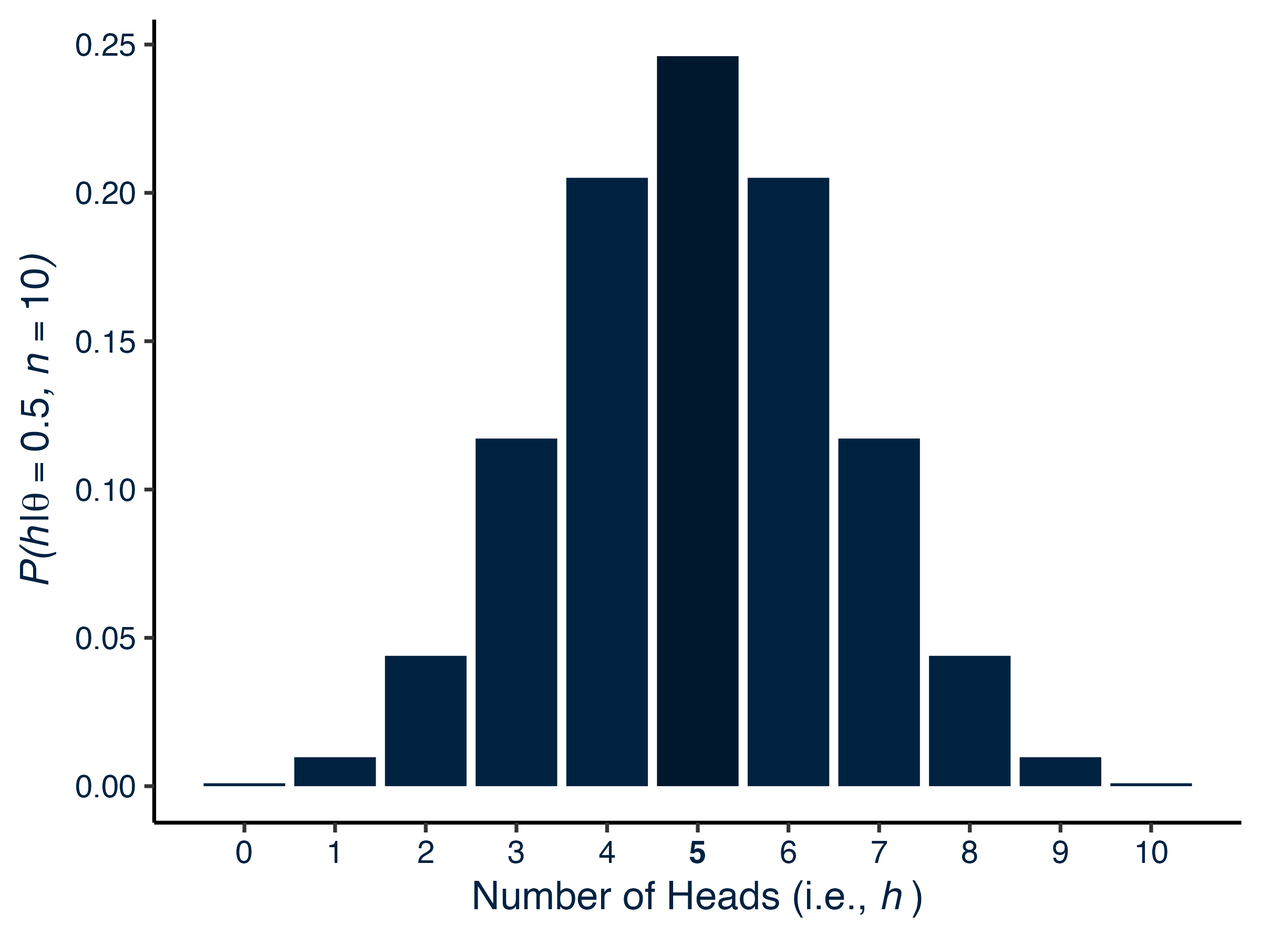
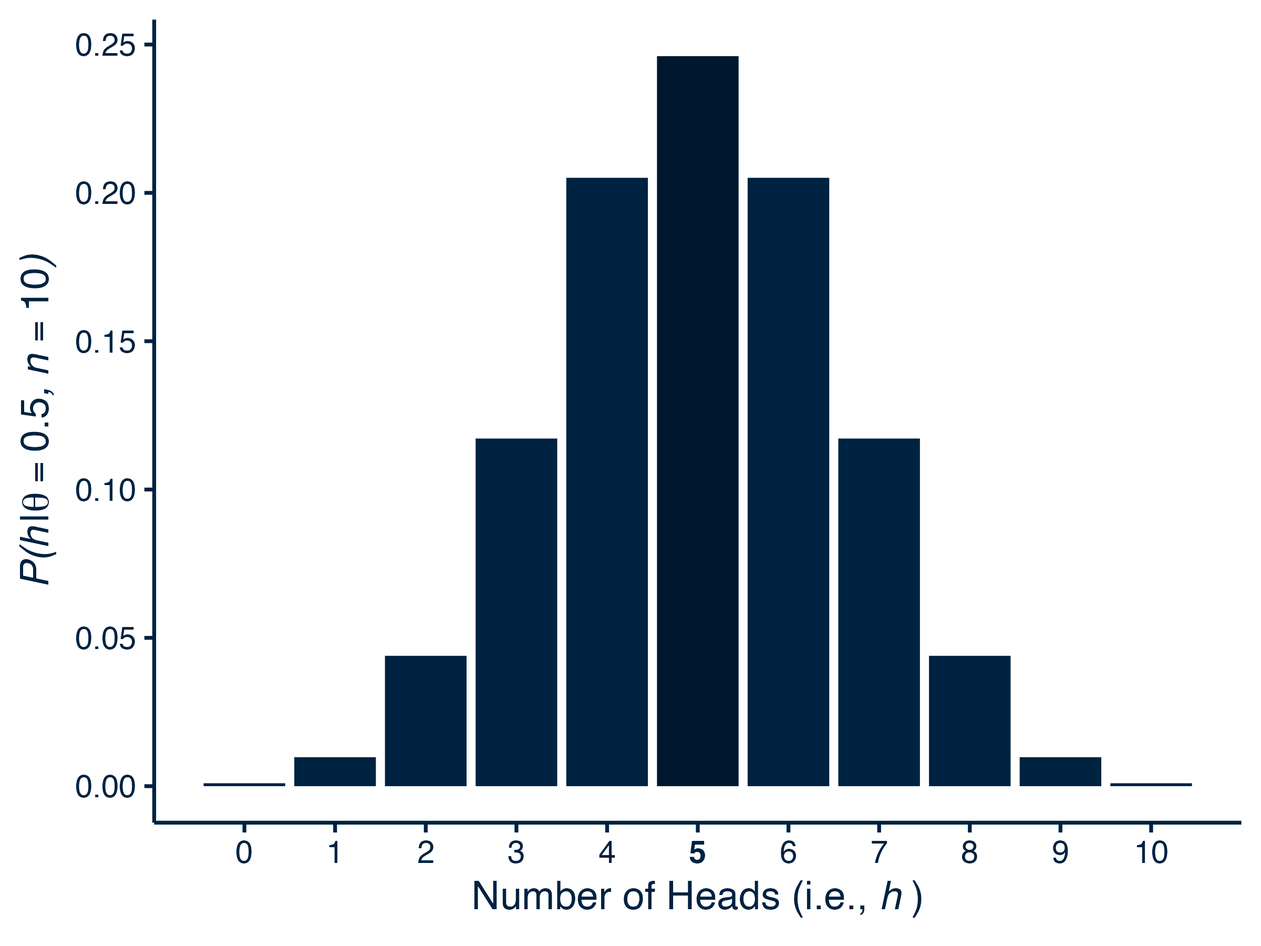
Blog update.

diff --git a/content/technical_content/MLE_EM_algorithms/index.html b/content/technical_content/MLE_EM_algorithms/index.html
@@ -342,8 +342,8 @@ display: none;
 </div>
 
 
-<div id="probability-mass-functions-the-probability-of-observing-each-possible-outcome-given-specific-parameter-values" class="section level1" number="1">
-<h1><span class="header-section-number">1</span> Probability Mass Functions: The Probability of Observing Each Possible Outcome Given Specific Parameter Values</h1>
+<div id="probability-mass-functions-the-probability-of-observing-each-possible-outcome-given-one-set-of-parameter-values" class="section level1" number="1">
+<h1><span class="header-section-number">1</span> Probability Mass Functions: The Probability of Observing Each Possible Outcome Given One Set of Parameter Values</h1>
 <p>Consider an example where a researcher obtains a coin and believes it to be unbiased, <span class="math inline">\(P(\theta) = P(head) = 0.50\)</span>. To test this hypothesis, the researcher intends to flip the coin 10 times and record the result as a <code>1</code> for heads and <code>0</code> for tails, thus obtaining a vector of 10 observed scores, <span class="math inline">\(\mathbf{y} \in \\{0, 1 \\}^{10}\)</span>, where <span class="math inline">\(n = 10\)</span>. Before collecting the data to test their hypothesis, the researcher would like to get an idea of the probability of observing any given number of heads given that the coin is unbiased and there are 10 coin flips, <span class="math inline">\(P(\mathbf{y}|\theta, n)\)</span>. Thus, the outcome of interest is the number of heads, <span class="math inline">\(h\)</span>, where <span class="math inline">\(\\{h|0 \le h \le10\\}\)</span>. Because the coin flips have a dichotomous outcome and the result of any given flip is independent of all the other flips, the probability of obtaining any given number of heads will be distributed according to a binomial distribution, <span class="math inline">\(h \sim B(n, h)\)</span>. To compute the probability of obtaining any given number of heads, the <em>binomial function</em> shown below in Equation <span class="math inline">\(\ref{eq:prob-mass-function}\)</span> can be used:
 <span class="math display">\[
 \begin{align}
@@ -402,15 +402,6 @@ library(grDevices) #needed for italic()
 highest_number_ind &lt;- which.max(prob_distribution$probability) 
 ##most likely number of successes
 most_likely_number &lt;- prob_distribution$num_successes[highest_number_ind] 
-##probability value of most likely number of successes
-highest_prob &lt;- max(prob_distribution$probability) 
-
-rectangle_data &lt;-data.frame(
-  &#39;xmin&#39; = most_likely_number - 0.10, 
-  &#39;xmax&#39; = most_likely_number + 0.10,
-  &#39;ymin&#39; = 0,
-  &#39;ymax&#39; = highest_prob)
-
 
 #create pmf plot 
 pmf_plot &lt;- ggplot(data = prob_distribution, aes(x = num_successes, y = probability)) + 
@@ -418,10 +409,8 @@ pmf_plot &lt;- ggplot(data = prob_distribution, aes(x = num_successes, y = proba
            fill =  ifelse(test = prob_distribution$num_successes == most_likely_number, 
                                 no =  &quot;#002241&quot;, 
                                 yes = &quot;#00182d&quot;)) +  #calculate sum of probability for each num_successes
- ## geom_rect(inherit.aes = F, 
- ##           data = rectangle_data, mapping = aes(xmin = xmin, xmax = xmax, ymin = ymin, ymax = ymax), 
- ##           fill = &#39;grey50&#39;, color = NA, alpha = 0.2) +
-  scale_y_continuous(name = bquote(italic(&quot;P(h&quot;)*&quot;|&quot;*italic(theta == .(prob_success)*&quot;,&quot;~n == .(num_trials)*&quot;)&quot;))) + 
+
+    scale_y_continuous(name = bquote(italic(&quot;P(h&quot;)*&quot;|&quot;*italic(theta == .(prob_success)*&quot;,&quot;~n == .(num_trials)*&quot;)&quot;))) + 
   scale_x_continuous(name = bquote(&quot;Number of Heads (i.e., &quot;*italic(&quot;h&quot;)~&quot;)&quot;), 
                      breaks = seq(from = 0, to = 10, by = 1)) +
   theme_classic(base_family = &quot;Helvetica&quot;, base_size = 18) +
@@ -434,7 +423,8 @@ pmf_plot &lt;- ggplot(data = prob_distribution, aes(x = num_successes, y = proba
                                 no =  &quot;plain&quot;, 
                                 yes = &quot;bold&quot;)), 
         text = element_text(color = &quot;#002241&quot;),
-        line = element_line(color = &quot;#002241&quot;), 
+        axis.line = element_line(color = &quot;#002241&quot;), 
+        axis.ticks = element_line(color =  &quot;#002241&quot;), 
         axis.text = element_text(color = &quot;#002241&quot;))
 
 ggsave(filename = &#39;images/pmf_plot.png&#39;, plot = pmf_plot, height = 6, width = 8)</code></pre>
@@ -445,7 +435,7 @@ ggsave(filename = &#39;images/pmf_plot.png&#39;, plot = pmf_plot, height = 6, wi
 &lt;/caption&gt;</code></pre>
 </div>
 <div class="figTitle">
-<pre><code>Probability Mass Function With an Unbiased Coin (&lt;span class = &quot;theta&quot;&gt;&amp;theta;&lt;/span&gt; = 0.50) and Ten Coin Flips (n = 10)&lt;/span&gt; </code></pre>
+<pre><code>Probability Mass Function With an Unbiased Coin (&lt;span class = &quot;theta&quot;&gt;&amp;theta;&lt;/span&gt; = 0.50) and Ten Coin Flips (n = 10)</code></pre>
 </div>
 <pre><code>&lt;img src=&quot;images/pmf_plot.png&quot; width=&quot;70%&quot; height=&quot;70%&quot;&gt; </code></pre>
 <div class="figNote">
@@ -468,7 +458,7 @@ sum(prob_distribution$probability)  #1</code></pre>
 <p>Continuing with the coin flipping example, the researcher flips the coin 10 times and obtains seven heads. With these data, the researcher wants to determine the probability value of heads, <span class="math inline">\(\theta\)</span>, that most likely produced the data, <span class="math inline">\(P(h, n|\theta)\)</span><a href="#fn2" class="footnote-ref" id="fnref2"><sup>2</sup></a>. Before continuing, it is important to explain why the researcher is no longer dealing with probabilities and is instead dealing with likelihoods.</p>
 <div id="likelihoods-are-not-probabilities" class="section level2" number="2.1">
 <h2><span class="header-section-number">2.1</span> Likelihoods are not Probabilities</h2>
-<p>Because we are interested in determining which value of <span class="math inline">\(\theta \in \[0, 1\]\)</span> most likely produced the data, the probability of observing the data must be computed for each of these values, <span class="math inline">\(P(h = 7, n = 10|\theta)\)</span>. Although we also use the binomial function to compute <span class="math inline">\(P(h = 7, n = 10|\theta)\)</span> for each <span class="math inline">\(\theta \in \[0, 1\]\)</span>, the resulting values are not probabilities because they do not sum to 1, and this can be verified by summing these values using the code below (for a mathematical proof, see <a href="#proof-likelihood">Appendix B</a>).</p>
+<p>Because we are interested in determining which value of <span class="math inline">\(\theta \in \[0, 1\]\)</span> most likely produced the data, the probability of observing the data must be computed for each of these values, <span class="math inline">\(P(h = 7, n = 10|\theta)\)</span>. Thus, we now fix the data, <span class="math inline">\(h = 7, n = 10\)</span>, and vary the parameter value of <span class="math inline">\(\theta\)</span>. Although we also use the binomial function to compute <span class="math inline">\(P(h = 7, n = 10|\theta)\)</span> for each <span class="math inline">\(\theta \in \[0, 1\]\)</span>, the resulting values are not probabilities because they do not sum to 1. Indeed, the code below shows that the values sum to 9.09. Thus, when fixing the data and varying the parameter values, the resulting values do not sum to one (for a mathematical proof with the binomial function, see <a href="#proof-likelihood">Appendix B</a> and are, therefore, not probabilities: they are likelihoods. To signify the fundamental difference between probabilities and likelihoods, we use different notations. When fixing the data and varying the parameter values, we compute the likelihood of the parameter given the data, <span class="math inline">\(L(\theta|h, n)\)</span>.</p>
 <pre class="r"><code>num_trials &lt;- 10
 num_successes &lt;- 7
 prob_success &lt;- seq(from = 0, to = 1, by = 0.01) #manipulated variable 
@@ -479,34 +469,39 @@ likelihood_distribution &lt;- compute_binom_mass_density(num_trials = num_trials
 sum(likelihood_distribution$probability)</code></pre>
 <pre><code class="r-code">[1] 9.09091
 </code></pre>
-<p>The sum of all these values is greater than 1—specifically, 9.09—and so these values are not probabilities. To provide an explanation, when determining the value of <span class="math inline">\(\theta\)</span> that most likely produced the data, we fix the data and vary the parameter values (i.e., <span class="math inline">\(\theta\)</span>). the data and varying the parameter values, the resulting values do not sum to 1 and are, consequently, not probability values: they are likelihoods. Therefore, when trying to determine the value of <span class="math inline">\(\theta\)</span> that most likely produced the observed data, likelihoods are computed, and this fundamental difference is conveyed with a different notation. Instead of computing the probability of the data given a parameter value (e.g., <span class="math inline">\(P(h = 7, n = 10|\theta)\)</span>), we compute the likelihood of the parameter given the data, <span class="math inline">\(L(\theta|h = 7, n = 10)\)</span>.</p>
+<p>In computing likelihoods, it is important to note they cannot be interpreted as probabilities. As an example, the likelihood of 0.108 obtained for <span class="math inline">\(L(\theta = .50|h=7, n=10)\)</span> does not mean that, given a probability of heads of .50, there is a 10.8% chance that seven heads will arise in 10 coin flips: The value of <span class="math inline">\(L(\theta = .50|h=7, n=10) = 0.108\)</span> provides a measure of how strongly the data are expected under the hypothesis that <span class="math inline">\(\theta = .50\)</span>.</p>
 </div>
-<div id="using-likelihoods-to-determine-the-parameter-value-that-most-likely-produced-the-observed-data" class="section level2" number="2.2">
-<h2><span class="header-section-number">2.2</span> Using Likelihoods to Determine the Parameter Value that Most Likely Produced the Observed Data</h2>
-<p>Although probability density functions compute the probability that a set of data values have been observed given a fixed set of parameter valuess, we are seldom interested in this probability. Practitioners and researchers
-are more interested in the probability that a certain set of parameter values characterize the larger population (i.e, <span class="math inline">\(p(\theta|y)\)</span>). When trying to determine the most likely set of
-parameter values, we use likelihood functions. Thus, the likelihood of a set of parameters given the observed data is represented as <span class="math inline">\(L(\theta|y)\)</span>. Importantly, likelihoods do not
-represent the probability that a given set of parameter values defines the population (i.e., <span class="math inline">\(P(\theta)\)</span>); we sample data and want to infer parameter values at the population level. With
-probabilities, we assume knowledge of the population parameter values and calculate the probability of observing any given set of data. Using perhaps more relatable terms, the
-hypothesis is assumed to be true when calculating conditional probabilities and the data are varied. For likelihoods, the data is fixed and the hypothesis is varied. Note that Bayes
-theorem can be used to convert likelihoods (<span class="math inline">\(L(\theta|y)\)</span>) to probabilities (<span class="math inline">\(P(\theta)\)</span>).</p>
-<p>To compute likelihoods, the function used to compute the above probabilities is used. Although confusing, the parameter values (the probability of success in this example [<span class="math inline">\(\theta_1\)</span>])
-are now being manipulated and not the data (see Figure <a href="#fig:likelihood-dist"><strong>??</strong></a>. Importantly, the sum of all the likelihoods does not sum to 1 (<span class="math inline">\(\int^n_0 f(y|n, \theta) \neq 1\)</span>),
-which explains why likelihoods are sometimes called <em>unnormalized probabilities</em>. Although it seems unintuitive that the sum of the likelihoods is not 1, remember that likelihoods do not
-describe the probability of a set of parameter being true (i.e., <span class="math inline">\(p(\theta)\)</span>); if they did, then the integral would sum to 1. Given that we have two parameters, we can also produce
-another likelihood function by changing the values of the number of trials <span class="math inline">\(\theta_1\)</span> (see Figure <a href="#likelihood-dist2"><strong>??</strong></a>). A joint likelihood function can be produced by varying
-both parameters simultaneously.</p>
+<div id="creating-a-likelihood-distribution-to-find-the-maximum-likelihood-estimate" class="section level2" number="2.2">
+<h2><span class="header-section-number">2.2</span> Creating a Likelihood Distribution to Find the Maximum Likelihood Estimate</h2>
+<p>Although likelihoods are fundamentally different from probabilities, they can still be plotted to find the most likely parameter value.</p>
+<div class="figure">
+<div class="figDivLabel">
+<pre><code>&lt;caption&gt;
+  &lt;span class = &#39;figLabel&#39;&gt;Figure \ref{fig:prob-mass-binom}&lt;span&gt; 
+&lt;/caption&gt;</code></pre>
 </div>
-<div id="resources" class="section level2" number="2.3">
-<h2><span class="header-section-number">2.3</span> Resources</h2>
+<div class="figTitle">
+<pre><code>Likelihood Distribution With Seven Heads (h = 7) and Ten Coin Flips (n = 10)</code></pre>
+</div>
+<pre><code>&lt;img src=&quot;images/likelihood_plot.png&quot; width=&quot;70%&quot; height=&quot;70%&quot;&gt; </code></pre>
+<div class="figNote">
+<pre><code>  &lt;span&gt;&lt;em&gt;Note. &lt;/em&gt; Number emboldened on the x-axis indicates the value of &lt;span class = &quot;theta&quot;&gt;&amp;theta;&lt;/span&gt; that is the maximum likelihood estimate, with the corresponding bar in dark blueindicating the corresponding value.&lt;/span&gt; </code></pre>
 </div>
 </div>
-<div id="references" class="section level1" number="3">
-<h1><span class="header-section-number">3</span> References</h1>
+</div>
+</div>
+<div id="using-maximum-likelihood-estimation-to-find-the-most-likely-set-of-parameter-values" class="section level1" number="3">
+<h1><span class="header-section-number">3</span> Using Maximum Likelihood Estimation to Find the Most Likely Set of Parameter Values</h1>
+<div id="resources" class="section level2" number="3.1">
+<h2><span class="header-section-number">3.1</span> Resources</h2>
+</div>
+</div>
+<div id="references" class="section level1" number="4">
+<h1><span class="header-section-number">4</span> References</h1>
 <p>{{&lt; bibliography cited &gt;}}</p>
 </div>
-<div id="proof-pmf" class="section level1" number="4">
-<h1><span class="header-section-number">4</span> Appendix A: Proof That the Binomial Function is a Probability Mass Function</h1>
+<div id="proof-pmf" class="section level1" number="5">
+<h1><span class="header-section-number">5</span> Appendix A: Proof That the Binomial Function is a Probability Mass Function</h1>
 <p>To prove that the binomial function is a probability mass function, two outcomes must be shown: 1) all probability values are non-negative and 2) the sum of all probabilities is 1.</p>
 <p>For the first condition, the impossibility of negative values occurring in the binomial function becomes obvious when individually considering the binomial coefficient, <span class="math inline">\(n \choose k\)</span>, and the binomial factors, <span class="math inline">\(p^k (1-p)^{n-k}\)</span>. With respect to the binomial coefficient, <span class="math inline">\(n \choose k\)</span>, it is always nonnegative because it is the product of two non-negative numbers; the number of trials, <span class="math inline">\(n\)</span>, and the number of successes can never be negative. With respect to the binomial factors, the resulting value is always nonnegative because all the term are nonnegative; in addition to the number of trials and successes (<span class="math inline">\(n, k\)</span>, respectively), the probability of success and failure are also always nonnegative (<span class="math inline">\(p, k \in \[0,1\]\)</span>). Therefore, probabilities can be conceptualized as the product of a nonnegative binomial coefficient and a nonnegative binomial factor, and so is alwasys nonnegative.</p>
 <p>For the second condition, the equality stated below in Equation <span class="math inline">\(\ref{eq:binomial-sum-one}\)</span> must be proven:</p>
@@ -522,8 +517,8 @@ both parameters simultaneously.</p>
 <p>Given the striking resemblance between the binomial function in Equation <span class="math inline">\(\ref{eq:binomial-sum-one}\)</span> and the binomial theorem in Equation <span class="math inline">\(\ref{eq:binomial-sum-one}\)</span>, it is possible to restate the binomial theorem with respect to the variables in the binomial function. Specifically, we can let <span class="math inline">\(a = p\)</span> and <span class="math inline">\(b = 1-p\)</span>, which returns the proof as shown below:</p>
 <p>For a proof of the binomial theorem, see <a href="#proof-binomial">Appendix E</a>.</p>
 </div>
-<div id="proof-likelihood" class="section level1" number="5">
-<h1><span class="header-section-number">5</span> Appendix B: Proof That Likelihoods are not Probabilities</h1>
+<div id="proof-likelihood" class="section level1" number="6">
+<h1><span class="header-section-number">6</span> Appendix B: Proof That Likelihoods are not Probabilities</h1>
 <p>As a reminder, although the same formula is used to compute likelihoods and probabilities, the variables allowed to vary and those set to be fixed differ when computing likelihoods and probabilities. With probabilities, the parameters are fixed (<span class="math inline">\(\theta\)</span>, <span class="math inline">\(n\)</span>) and the data are varied (<span class="math inline">\(h\)</span>; notice how, in Appendix A, probabilities were summed across all possible values of <span class="math inline">\(h\)</span>). With likelihoods, however, the data are fixed (<span class="math inline">\(h\)</span>) and the parameters are varied (<span class="math inline">\(\theta\)</span>, <span class="math inline">\(n\)</span>). For the current proof, it is sufficient to only allow <span class="math inline">\(\theta\)</span> to vary. To prove that likelihoods are not probabilities, we have to prove that likelihoods do not satisfy one of the two conditions required by probabilities (i.e., likelihoods can have negative values or likelihoods do not sum to one). Given that likelihoods are calculated with the same function as probabilities and probabilities can never be negative (see <a href="#proof-pmf">Appendix A</a>), likelihoods likewise can never ne negative. Therefore, to prove that likelihoods are not probabilities, we must prove that likelihoods do not always sum to 1. Thus, the following proposition must be proven:</p>
 <p><span class="math display">\[
 \int_0^1 L(\theta|h, n) \phantom{c} d\theta= \sum_{\theta = 0}^1{n \choose h} \theta^h(1 - \theta)^{n-h} \neq 1.
@@ -601,8 +596,8 @@ sum(likelihood_distribution$probability) #compute integral</code></pre>
 <pre><code class="r-code">[1] 9.09091
 </code></pre>
 </div>
-<div id="proof-beta-gamma" class="section level1" number="6">
-<h1><span class="header-section-number">6</span> Appendix C: Proof of Relation Between Beta and Gamma Functions</h1>
+<div id="proof-beta-gamma" class="section level1" number="7">
+<h1><span class="header-section-number">7</span> Appendix C: Proof of Relation Between Beta and Gamma Functions</h1>
 <p>Equation <span class="math inline">\(\ref{eq:beta-gamma-proof}\)</span> below will be proven</p>
 <p><span class="math display">\[
 \begin{align}
@@ -683,17 +678,17 @@ At this point, we need to determine the integration limits of <span class="math 
 \]</span></p>
 <p>Therefore, the original integration limits of 0 to <span class="math inline">\(\infty\)</span> of <span class="math inline">\(s\)</span> and <span class="math inline">\(t\)</span> produce integration limits 0 to <span class="math inline">\(\infty\)</span> for <span class="math inline">\(u\)</span> and 0 to 1 for <span class="math inline">\(v\)</span>. Recalling the gamma function (Equation <span class="math inline">\(\ref{eq:gamma-function}\)</span> and the beta function (Equation <span class="math inline">\(\ref{eq:beta-function}\)</span>, the beta function can now be expressed in terms of the gamma function, proving Equation <span class="math inline">\(\ref{eq:beta-gamma-proof}\)</span>.</p>
 </div>
-<div id="proof-gamma-factorial" class="section level1" number="7">
-<h1><span class="header-section-number">7</span> Appendix D: Proof of Relation Between Gamma and Factorial Functions</h1>
+<div id="proof-gamma-factorial" class="section level1" number="8">
+<h1><span class="header-section-number">8</span> Appendix D: Proof of Relation Between Gamma and Factorial Functions</h1>
 </div>
-<div id="proof-binomial" class="section level1" number="8">
-<h1><span class="header-section-number">8</span> Appendix E: Proof of Binomial Theorem</h1>
+<div id="proof-binomial" class="section level1" number="9">
+<h1><span class="header-section-number">9</span> Appendix E: Proof of Binomial Theorem</h1>
 </div>
 <div class="footnotes footnotes-end-of-document">
 <hr />
 <ol>
 <li id="fn1"><p>Discrete variables have a countable number of discrete values. In the current example with ten coin flips (<span class="math inline">\(n = 10\)</span>), the number of heads is a discrete variable because the number of heads, <span class="math inline">\(h\)</span>, has a countable number of outcomes, <span class="math inline">\(h \in \\{0, 1, 2, ..., n\\}\)</span>.<a href="#fnref1" class="footnote-back">↩</a></p></li>
-<li id="fn2"><p>It should be noted that Bayes’ formula can also be used to determine the value of <span class="math inline">\(\theta\)</span> that most likely produced the data. Instead of calculating, <span class="math inline">\(P(h, n|\theta)\)</span>, however, Bayes’ formula uses prior information about an hypothesis to calculate the probability of <span class="math inline">\(\theta\)</span> given the data, <span class="math inline">\(P(\theta|h, n)\)</span> (for a review, see {{&lt; cite “fine2019” &gt;}}).<a href="#fnref2" class="footnote-back">↩</a></p></li>
+<li id="fn2"><p>It should be noted that Bayes’ formula can also be used to determine the value of <span class="math inline">\(\theta\)</span> that most likely produced the data. Instead of calculating, <span class="math inline">\(P(h, n|\theta)\)</span>, however, Bayes’ formula uses prior information about an hypothesis to calculate the probability of <span class="math inline">\(\theta\)</span> given the data, <span class="math inline">\(P(\theta|h, n)\)</span> (for a review, see {{&lt; cite “etz2018” &gt;}}).<a href="#fnref2" class="footnote-back">↩</a></p></li>
 </ol>
 </div>
 

diff --git a/themes/basic/assets/css/_tableContents.scss b/themes/basic/assets/css/_tableContents.scss
@@ -9,6 +9,7 @@
 
 .toc_container {
    position: -webkit-sticky; /* Safari */
+   position: sticky;
   top: 2rem;
   height: inherit;
   width: 14rem;
@@ -18,6 +19,7 @@
 
 .tableContents{
    position: -webkit-sticky; /* Safari */
+    position: sticky;
   font-family: Helvetica !important;
   font-size: 0.75rem;
   font-weight: bold;

diff --git a/themes/basic/assets/css/_figures.scss b/themes/basic/assets/css/_figures.scss
@@ -36,6 +36,7 @@
   position: relative;
   font-size: 9pt;
   display: flex;
+  font-family: palatino;
 }
 
 

diff --git a/content/technical_content/MLE_EM_algorithms/index.md b/content/technical_content/MLE_EM_algorithms/index.md
@@ -13,14 +13,14 @@ bibFile: content/technical_content/MLE_EM_algorithms/biblio.json
 tags: []
 ---   
 
-{{< cite "fine2019" >}}
 
 
 
 
 
 
-# Probability Mass Functions: The Probability of Observing Each Possible Outcome Given Specific Parameter Values
+
+# Probability Mass Functions: The Probability of Observing Each Possible Outcome Given One Set of Parameter Values
 
 Consider an example where a researcher obtains a coin and believes it to be unbiased, $P(\theta) = P(head) = 0.50$. To test this hypothesis, the researcher intends to flip the coin 10 times and record the result as a `1` for heads and `0` for tails, thus obtaining a vector of 10 observed scores, $\mathbf{y} \in \\{0, 1 \\}^{10}$, where $n = 10$. Before collecting the data to test their hypothesis, the researcher would like to get an idea of the probability of observing any given number of heads given that the coin is unbiased and there are 10 coin flips, $P(\mathbf{y}|\theta, n)$. Thus, the outcome of interest is the number of heads, $h$, where $\\{h|0 \le h \le10\\}$. Because the coin flips have a dichotomous outcome and the result of any given flip is independent of all the other flips, the probability of obtaining any given number of heads will be distributed according to a binomial distribution, $h \sim B(n, h)$. To compute the probability of obtaining any given number of heads, the *binomial function* shown below in Equation \ref{eq:prob-mass-function} can be used:
 $$
@@ -88,15 +88,6 @@ library(grDevices) #needed for italic()
 highest_number_ind <- which.max(prob_distribution$probability) 
 ##most likely number of successes
 most_likely_number <- prob_distribution$num_successes[highest_number_ind] 
-##probability value of most likely number of successes
-highest_prob <- max(prob_distribution$probability) 
-
-rectangle_data <-data.frame(
-  'xmin' = most_likely_number - 0.10, 
-  'xmax' = most_likely_number + 0.10,
-  'ymin' = 0,
-  'ymax' = highest_prob)
-
 
 #create pmf plot 
 pmf_plot <- ggplot(data = prob_distribution, aes(x = num_successes, y = probability)) + 
@@ -104,10 +95,8 @@ pmf_plot <- ggplot(data = prob_distribution, aes(x = num_successes, y = probabil
            fill =  ifelse(test = prob_distribution$num_successes == most_likely_number, 
                                 no =  "#002241", 
                                 yes = "#00182d")) +  #calculate sum of probability for each num_successes
- ## geom_rect(inherit.aes = F, 
- ##           data = rectangle_data, mapping = aes(xmin = xmin, xmax = xmax, ymin = ymin, ymax = ymax), 
- ##           fill = 'grey50', color = NA, alpha = 0.2) +
-  scale_y_continuous(name = bquote(italic("P(h")*"|"*italic(theta == .(prob_success)*","~n == .(num_trials)*")"))) + 
+
+    scale_y_continuous(name = bquote(italic("P(h")*"|"*italic(theta == .(prob_success)*","~n == .(num_trials)*")"))) + 
   scale_x_continuous(name = bquote("Number of Heads (i.e., "*italic("h")~")"), 
                      breaks = seq(from = 0, to = 10, by = 1)) +
   theme_classic(base_family = "Helvetica", base_size = 18) +
@@ -120,7 +109,8 @@ pmf_plot <- ggplot(data = prob_distribution, aes(x = num_successes, y = probabil
                                 no =  "plain", 
                                 yes = "bold")), 
         text = element_text(color = "#002241"),
-        line = element_line(color = "#002241"), 
+        axis.line = element_line(color = "#002241"), 
+        axis.ticks = element_line(color =  "#002241"), 
         axis.text = element_text(color = "#002241"))
 
 ggsave(filename = 'images/pmf_plot.png', plot = pmf_plot, height = 6, width = 8)
@@ -133,7 +123,7 @@ ggsave(filename = 'images/pmf_plot.png', plot = pmf_plot, height = 6, width = 8)
     </caption>
   </div>
    <div class="figTitle">
-    Probability Mass Function With an Unbiased Coin (<span class = "theta">&theta;</span> = 0.50) and Ten Coin Flips (n = 10)</span> 
+    Probability Mass Function With an Unbiased Coin (<span class = "theta">&theta;</span> = 0.50) and Ten Coin Flips (n = 10)
   </div>
     <img src="images/pmf_plot.png" width="70%" height="70%"> 
   
@@ -163,11 +153,11 @@ With a probability mass function that shows the probability of obtaining each po
 
 Continuing with the coin flipping example, the researcher flips the coin 10 times and obtains seven heads. With these data, the researcher wants to determine the probability value of heads, $\theta$, that most likely produced the data, $P(h, n|\theta)$[^2].  Before continuing, it is important to explain why the researcher is no longer dealing with probabilities and is instead dealing with likelihoods. 
 
-[^2]: It should be noted that Bayes' formula can also be used to determine the value of $\theta$ that most likely produced the data. Instead of calculating, $P(h, n|\theta)$, however, Bayes' formula uses prior information about an hypothesis to calculate the probability of $\theta$ given the data, $P(\theta|h, n)$ (for a review, see {{< cite "fine2019" >}}). 
+[^2]: It should be noted that Bayes' formula can also be used to determine the value of $\theta$ that most likely produced the data. Instead of calculating, $P(h, n|\theta)$, however, Bayes' formula uses prior information about an hypothesis to calculate the probability of $\theta$ given the data, $P(\theta|h, n)$ (for a review, see {{< cite "etz2018" >}}). 
 
 ## Likelihoods are not Probabilities
 
-Because we are interested in determining which value of $\theta \in \[0, 1\]$ most likely produced the data, the probability of observing the data must be computed for each of these values, $P(h = 7, n = 10|\theta)$. Although we also use the binomial function to compute $P(h = 7, n = 10|\theta)$ for each $\theta \in \[0, 1\]$, the resulting values are not probabilities because they do not sum to 1, and this can be verified by summing these values using the code below (for a mathematical proof, see [Appendix B](#proof-likelihood)). 
+Because we are interested in determining which value of $\theta \in \[0, 1\]$ most likely produced the data, the probability of observing the data must be computed for each of these values, $P(h = 7, n = 10|\theta)$. Thus, we now fix the data, $h = 7, n = 10$, and vary the parameter value of $\theta$. Although we also use the binomial function to compute $P(h = 7, n = 10|\theta)$ for each $\theta \in \[0, 1\]$, the resulting values are not probabilities because they do not sum to 1. Indeed, the code below shows that the values sum to 9.09. Thus, when fixing the data and varying the parameter values, the resulting values do not sum to one (for a mathematical proof with the binomial function, see [Appendix B](#proof-likelihood) and are, therefore, not probabilities: they are likelihoods. To signify the fundamental difference between probabilities and likelihoods, we use different notations.  When fixing the data and varying the parameter values, we compute the likelihood of the parameter given the data, $L(\theta|h, n)$. 
   
 ```r 
 num_trials <- 10
@@ -183,32 +173,37 @@ sum(likelihood_distribution$probability)
 <pre><code class='r-code'>[1] 9.09091
 </code></pre>
 
-The sum of all these values is greater than 1---specifically, 9.09---and so these values are not probabilities. To provide an explanation, when determining the value of $\theta$ that most likely produced the data, we fix the data and vary the parameter values (i.e., $\theta$).  the data and varying the parameter values, the resulting values do not sum to 1 and are, consequently, not probability values: they are likelihoods. Therefore, when trying to determine the value of $\theta$ that most likely produced the observed data, likelihoods are computed, and this fundamental difference is conveyed with a different notation. Instead of computing the probability of the data given a parameter value (e.g., $P(h = 7, n = 10|\theta)$), we compute the likelihood of the parameter given the data, $L(\theta|h = 7, n = 10)$. 
-
-## Using Likelihoods to Determine the Parameter Value that Most Likely Produced the Observed Data
+In computing likelihoods, it is important to note they cannot be interpreted as probabilities. As an example, the likelihood of 0.108 obtained for $L(\theta = .50|h=7, n=10)$ does not mean that, given a probability of heads of .50, there is a 10.8% chance that seven heads will arise in 10 coin flips: The value of $L(\theta = .50|h=7, n=10) = 0.108$ provides a measure of how strongly the data are expected under the hypothesis that $\theta = .50$. 
 
 
+## Creating a Likelihood Distribution to Find the Maximum Likelihood Estimate
+
+
+Although likelihoods are fundamentally different from probabilities, they can still be plotted to find the most likely parameter value.  
 
 
 
 
+<div class="figure">
+  <div class="figDivLabel">
+    <caption>
+      <span class = 'figLabel'>Figure \ref{fig:prob-mass-binom}<span> 
+    </caption>
+  </div>
+   <div class="figTitle">
+    Likelihood Distribution With Seven Heads (h = 7) and Ten Coin Flips (n = 10)
+  </div>
+    <img src="images/likelihood_plot.png" width="70%" height="70%"> 
+  
+  <div class="figNote">
+      <span><em>Note. </em> Number emboldened on the x-axis indicates the value of <span class = "theta">&theta;</span> that is the maximum likelihood estimate, with the corresponding bar in dark blueindicating the corresponding value.</span> 
+  </div>
+</div>
 
-Although probability density functions compute the probability that a set of data values have been observed given a fixed set of parameter valuess, we are seldom interested in this probability. Practitioners and researchers
-are more interested in the probability that a certain set of parameter values characterize the larger population (i.e, $p(\theta|y)$). When trying to determine the most likely set of
-parameter values, we use likelihood functions. Thus, the likelihood of a set of parameters given the observed data is represented as $L(\theta|y)$. Importantly, likelihoods do not 
-represent the probability that a given set of parameter values defines the population (i.e., $P(\theta)$); we sample data and want to infer parameter values at the population level. With
-probabilities, we assume knowledge of the population parameter values and calculate the probability of observing any given set of data. Using perhaps more relatable terms, the 
-hypothesis is assumed to be true when calculating conditional probabilities and the data are varied. For likelihoods, the data is fixed and the hypothesis is varied. Note that Bayes
-theorem can be used to convert likelihoods ($L(\theta|y)$) to probabilities ($P(\theta)$). 
-
-To compute likelihoods, the function used to compute the above probabilities is used. Although confusing, the parameter values (the probability of success in this example [$\theta_1$])
-are now being manipulated and not the data (see Figure \@ref(fig:likelihood-dist). Importantly, the sum of all the likelihoods does not sum to 1 ($\int^n_0 f(y|n, \theta) \neq 1$), 
-which explains why likelihoods are sometimes called *unnormalized probabilities*. Although it seems unintuitive that the sum of the likelihoods is not 1, remember that likelihoods do not
-describe the probability of a set of parameter being true (i.e., $p(\theta)$); if they did, then the integral would sum to 1. Given that we have two parameters, we can also produce 
-another likelihood function by changing the values of the number of trials $\theta_1$ (see Figure \@ref(likelihood-dist2)). A joint likelihood function can be produced by varying 
-both parameters simultaneously. 
 
 
+
+# Using Maximum Likelihood Estimation to Find the Most Likely Set of Parameter Values  
 
 ## Resources 
 
